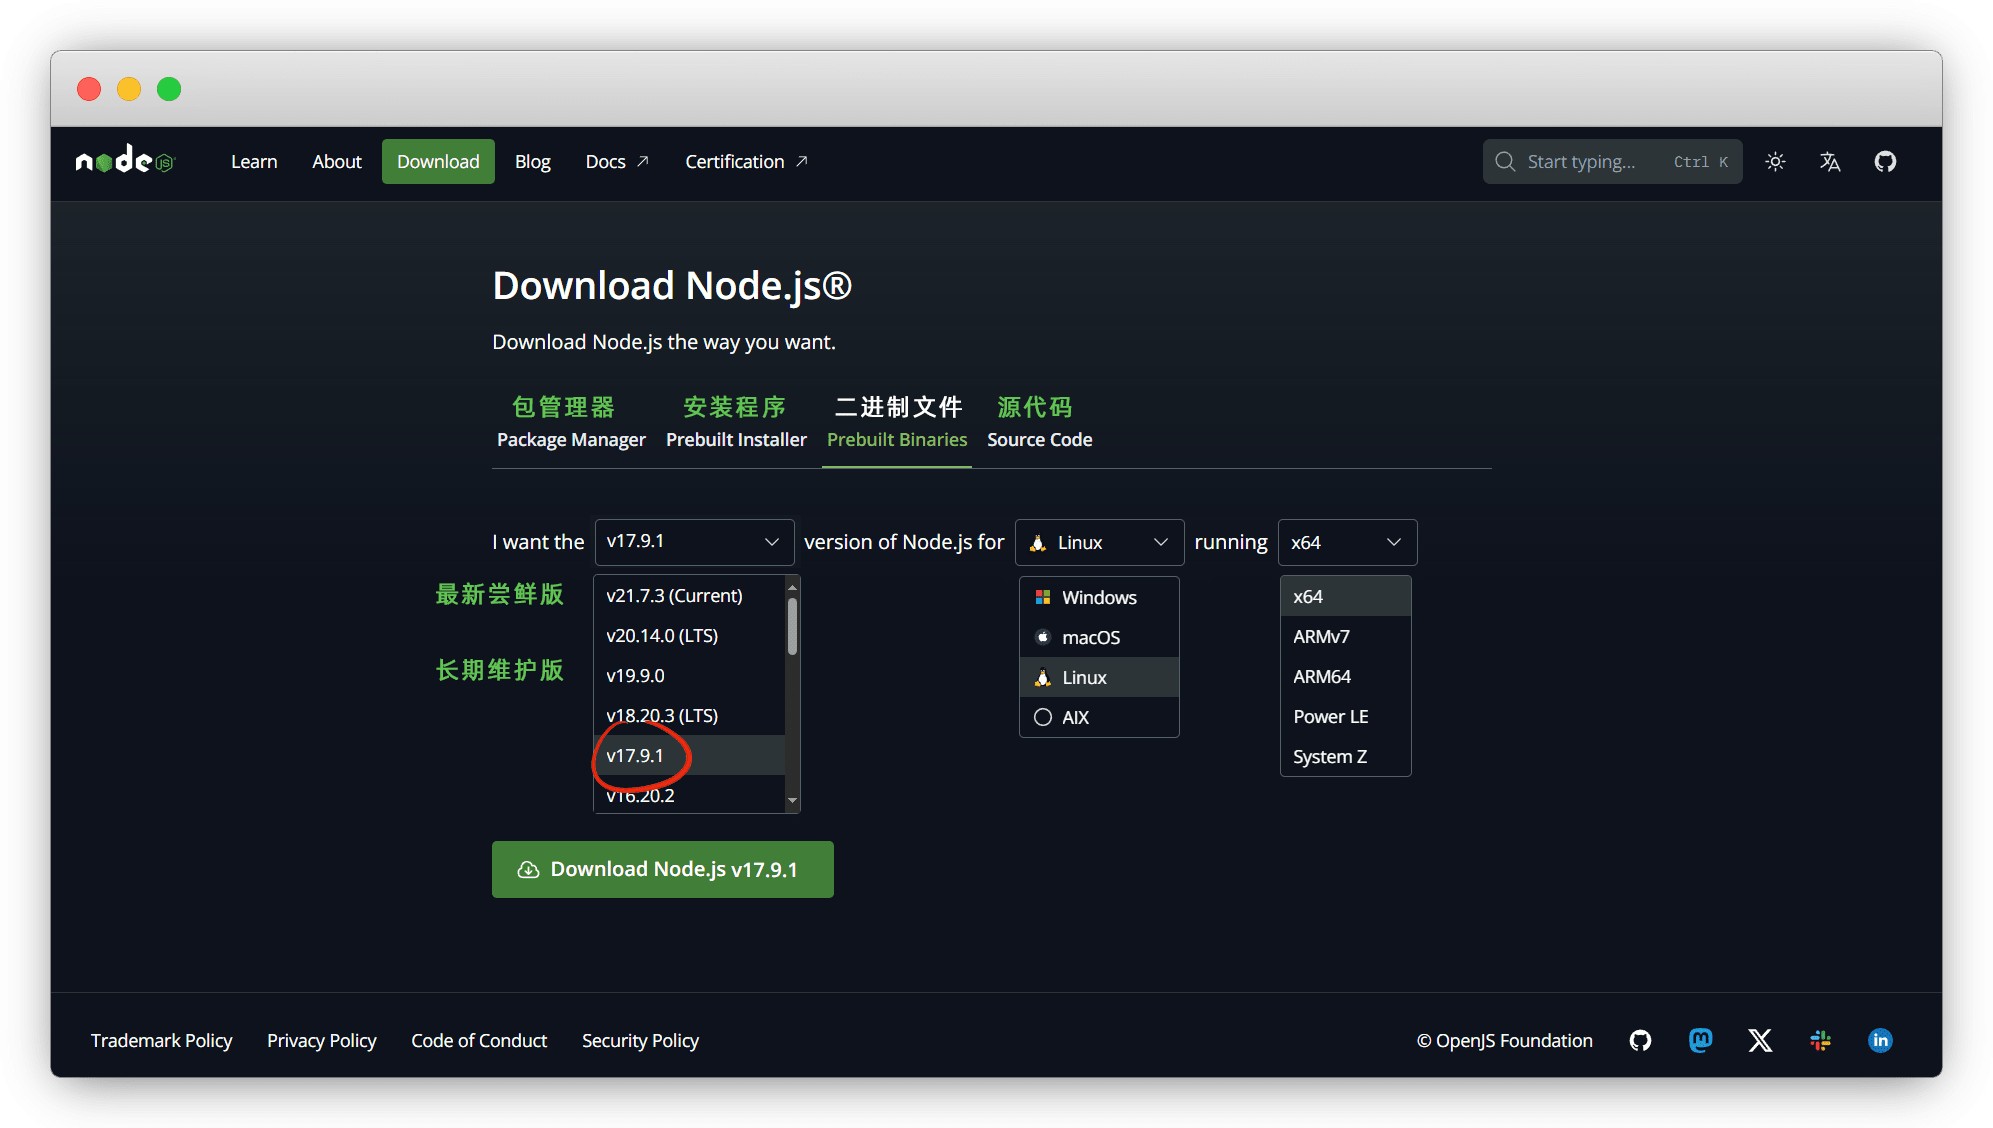
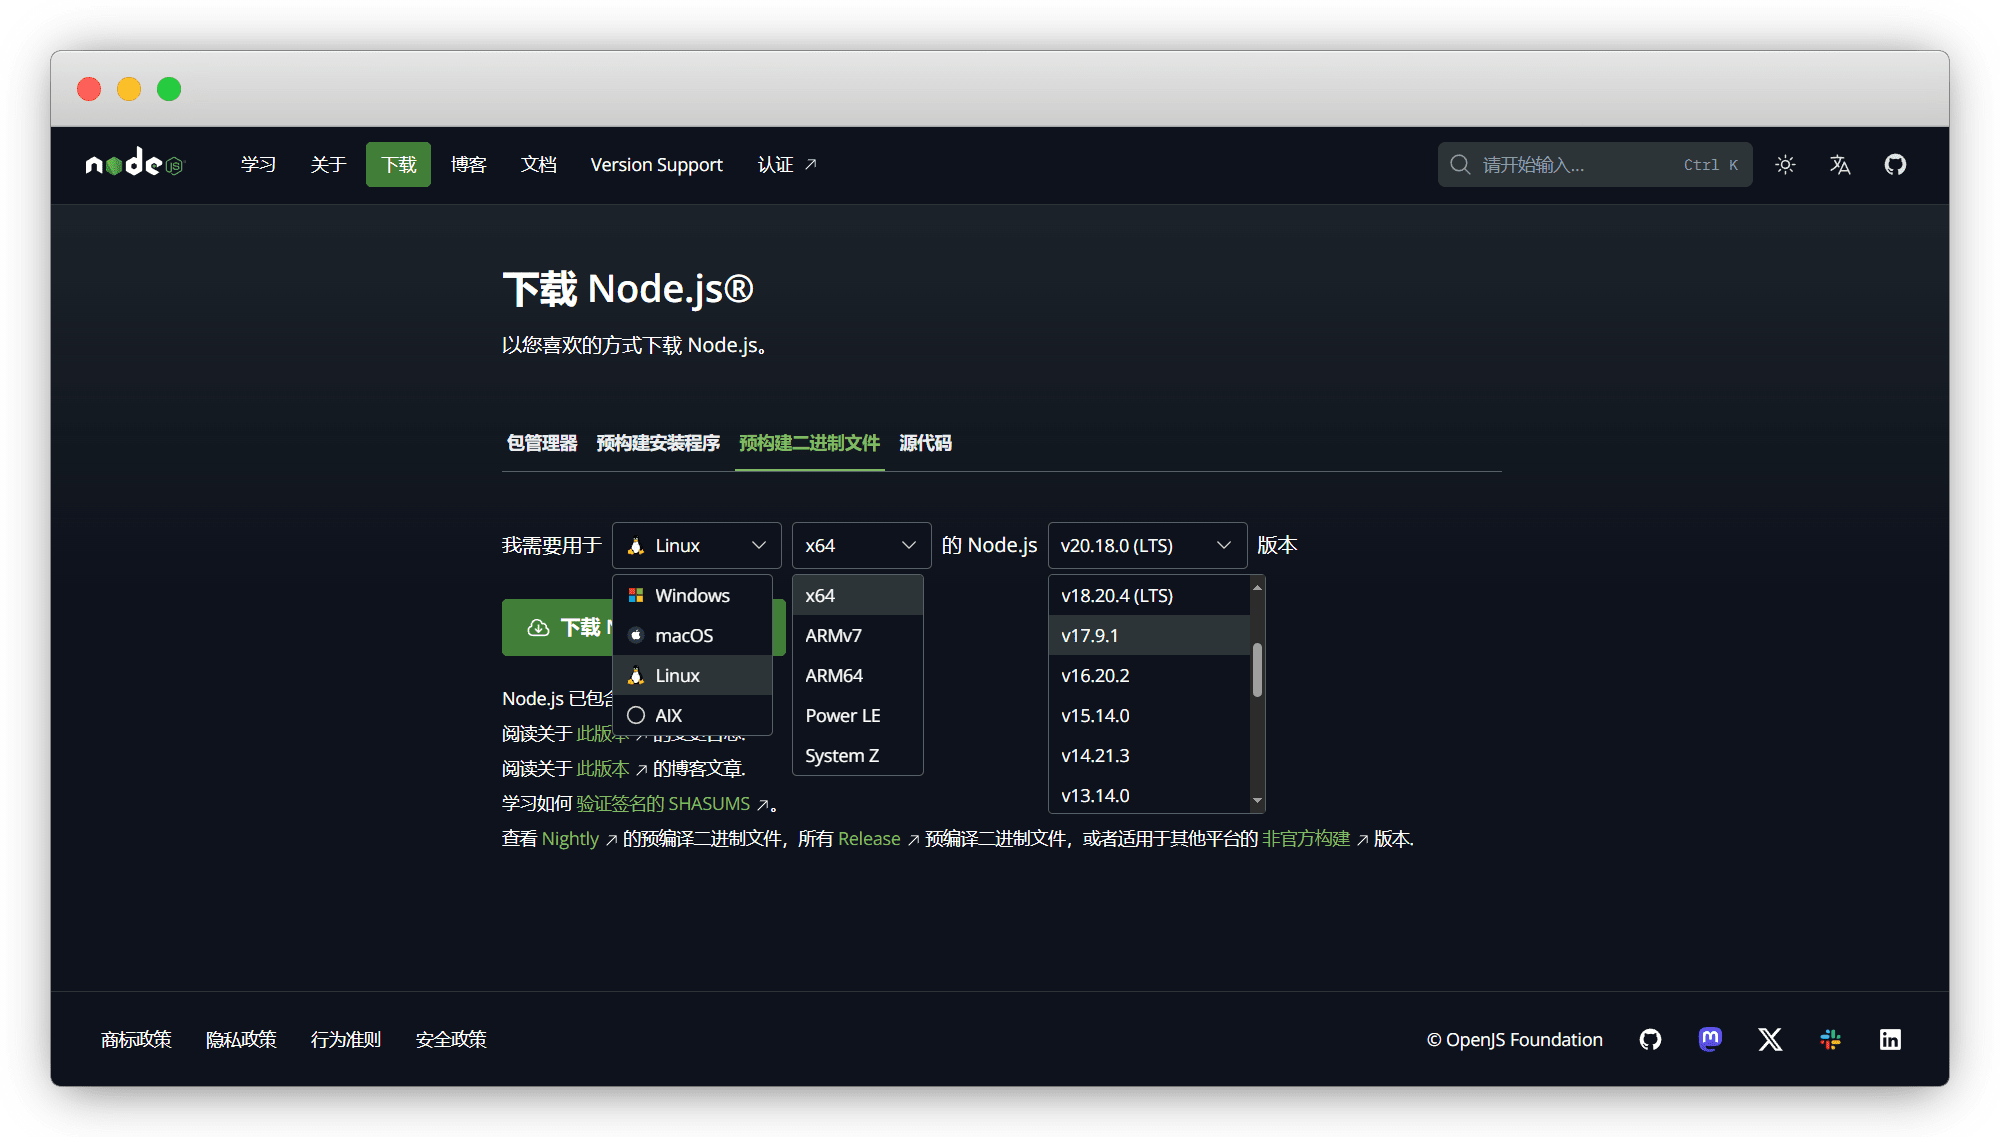
update

diff --git a/docs/.vitepress/theme/style/vp-code.css b/docs/.vitepress/theme/style/vp-code.css
@@ -2,24 +2,66 @@
 
 /* 无行号 添加背景阴影 */
 .vp-doc div[class*=language-] {
-    position: relative;
-    border-radius: 8px;
-    overflow: hidden;
-    box-shadow: 0 10px 30px 0 rgb(0 0 0 / 40%);
-    z-index: 1;
-  }
-  
-  /* 无行号：添加 macOS 风格的小圆点 */
-  .vp-doc div[class*=language-]::before {
-    content: "";
-    display: block;
-    position: relative;
-    top: 12px;
-    left: 12px;
-    width: 12px;
-    height: 12px;
-    background-color: #ff5f56;
-    border-radius: 50%;
-    box-shadow: 20px 0 0 #ffbd2e, 40px 0 0 #27c93f;
-    z-index: 1;
-  }
+  position: relative;
+  border-radius: 8px;
+  overflow: hidden;
+  box-shadow: 0 10px 30px 0 rgb(0 0 0 / 40%);
+  z-index: 1;
+}
+
+/* 无行号：添加 macOS 风格的小圆点 */
+.vp-doc div[class*=language-]::before {
+  content: "";
+  display: block;
+  position: relative;
+  top: 12px;
+  left: 12px;
+  width: 12px;
+  height: 12px;
+  background-color: #ff5f56;
+  border-radius: 50%;
+  box-shadow: 20px 0 0 #ffbd2e, 40px 0 0 #27c93f;
+  z-index: 1;
+}
+
+/* 有行号 添加背景阴影 */
+div[class*="language-"].vp-adaptive-theme.line-numbers-mode {
+  position: relative;
+  border-radius: 8px;
+  overflow: hidden;
+  box-shadow: 0 10px 30px 0 rgb(0 0 0 / 40%);
+}
+
+
+/* 有行号：添加 macOS 风格的小圆点 */
+.vp-doc div[class*="language-"].line-numbers-mode::before {
+  content: "";
+  display: block;
+  position: relative;
+  top: 12px;
+  left: -22px;
+  width: 12px;
+  height: 12px;
+  background-color: #ff5f56;
+  border-radius: 50%;
+  box-shadow: 20px 0 0 #ffbd2e, 40px 0 0 #27c93f;
+  z-index: 1;
+}
+
+
+
+/* 下移行号，与代码对齐；隐藏右侧竖线 */
+.vp-doc .line-numbers-wrapper {
+  padding-top: 32px;
+  border-right: none;
+}
+
+/* 重新建立行号右侧竖线 */
+.vp-doc .line-numbers-wrapper::after {
+  content: "";
+  position: absolute;
+  top: 38px;
+  right: 0;
+  border-right: 1px solid var(--vp-code-block-divider-color);
+  height: calc(100% - 66px);
+}

diff --git a/docs/.vitepress/theme/style/vp-code-group.css b/docs/.vitepress/theme/style/vp-code-group.css
@@ -2,37 +2,37 @@
 
 /* 代码块tab */
 .vp-code-group .tabs {
-    padding-top: 30px;
-  }
-  
-  /* 代码块tab-顶部小圆点 */
-  .vp-code-group .tabs::before {
-    background: #fc625d;
-    border-radius: 50%;
-    box-shadow: 20px 0 #fdbc40, 40px 0 #35cd4b;
-    content: ' ';
-    height: 12px;
-    width: 12px;
-    left: 12px;
-    margin-top: -15px;
-    position: absolute;
-  }
-  
-  /* 代码组的容器样式 */
-  .vp-code-group {
-    color: var(--vp-c-black-soft);
-    border-radius: 8px;
-    box-shadow: 0 10px 30px 0 rgb(0 0 0 / 40%);
-  }
-  
-  /* 在代码组内部与外部容器的边角一致，避免嵌套的阴影叠加 */
-  .vp-code-group div[class*="language-"].vp-adaptive-theme.line-numbers-mode {
-    border-radius: 8px;
-    box-shadow: none;
-    position: relative;
-  }
-  
-  /* 上移代码块小圆点 遮盖住 */
-  .vp-code-group div[class*="language-"].vp-adaptive-theme.line-numbers-mode::before {
-    top: -12px;
-  }
+  padding-top: 30px;
+}
+
+/* 代码块tab-顶部小圆点 */
+.vp-code-group .tabs::before {
+  background: #fc625d;
+  border-radius: 50%;
+  box-shadow: 20px 0 #fdbc40, 40px 0 #35cd4b;
+  content: ' ';
+  height: 12px;
+  width: 12px;
+  left: 12px;
+  margin-top: -15px;
+  position: absolute;
+}
+
+/* 代码组的容器样式 */
+.vp-code-group {
+  color: var(--vp-c-black-soft);
+  border-radius: 8px;
+  box-shadow: 0 10px 30px 0 rgb(0 0 0 / 40%);
+}
+
+/* 在代码组内部与外部容器的边角一致，避免嵌套的阴影叠加 */
+.vp-code-group div[class*="language-"].vp-adaptive-theme {
+  border-radius: 8px;
+  box-shadow: none;
+  position: relative;
+}
+
+/* 上移代码块小圆点 遮盖住 */
+.vp-code-group div[class*="language-"].vp-adaptive-theme::before {
+  display: none;
+}

diff --git a/docs/website/nodejs.md b/docs/website/nodejs.md
@@ -1,7 +1,4 @@
-
 # node.js的安装及使用
-
-
 
 
 
@@ -11,7 +8,7 @@
 
 npm是其包管理工具
 
-官网：[https://nodejs.org/](https://nodejs.org/zh-cn/)
+官网：https://nodejs.org/zh-cn
 
 仓库：https://github.com/nodejs/node
 
@@ -26,52 +23,43 @@ npm是其包管理工具
 
 ## 安装
 
-
-
-如果你安装了宝塔，可直接在软件商店搜 `node` 安装
+> 如果你安装了宝塔，可直接在软件商店搜 `node` 安装
 
 
 
 :::: details CentOS安装
 
-安装前，使用 [shell](./shell/) 工具 连接服务器 查看centos版本
+安装前，使用 [shell](./shell/) 工具 连接服务器，查看centos版本
 
 ```sh
+# 查看centos版本
 yum list installed | grep centos
 ```
 
-::: details 注意： 系统版本 和 nodejs 版本同步
-* centos 7：使用 node.js 18 以下（glibc版本低）
-
-* CentOS 8：使用 node.js 18 及以上版本
-:::
 
 ![](/nodejs/linux/linux-01.png)
 
 
+进入下载页面，选择 [预构建二进制文件](https://nodejs.org/zh-cn/download/prebuilt-binaries)
 
-进入下载页面 选择 [Prebuilt Installer](https://nodejs.org/en/download/prebuilt-installer)
-
-::: tip 说明
-* Package Manager：用包管理器安装
-
-* Prebuilt Installer：安装程序
-
-* Prebuilt Binaries：二进制文件(压缩包)
-
-* Source Code：源代码
-:::
-
-![](/nodejs/linux/linux-02.png)
-
-
-我的系统是CentOS 7，只能选择 `v17.9.1` - `linux` ，然后将下载链接复制出来
+我的系统是CentOS 7，只能选择 `v17.9.1` 
 
 ::: details 为什么不用最新版
 node.js 18 已不支持 Centos 7 了
 
+* centos 7：使用 node.js 18 以下（glibc版本低）
+
+* CentOS 8：使用 node.js 18 及以上版本
+
 其他版本查找：https://nodejs.org/dist/
 :::
+
+
+
+![](/nodejs/linux/linux-02.png)
+
+
+鼠标右键，将下载链接复制出来，如下
 
 ```
 https://nodejs.org/dist/v17.9.1/node-v17.9.1-linux-x64.tar.xz
@@ -84,7 +72,7 @@ https://nodejs.org/dist/v17.9.1/node-v17.9.1-linux-x64.tar.xz
 [shell](./shell/) 输入命令，进入根目录
 
 ::: tip 说明
-鼠标右键，粘贴！`ctrl+v` 是不可用的
+鼠标右键粘贴！`ctrl+v` 是不可用的
 :::
 
 ```sh
@@ -99,6 +87,10 @@ cd / #进入根目录
 
 使用wget命令安装，粘贴刚才的下载链接
 
+```sh
+wget https://nodejs.org/dist/v17.9.1/node-v17.9.1-linux-x64.tar.xz
+```
+
 ::: details 命令无反应？
 用 yum 安装一下 wget 就好
 
@@ -107,11 +99,6 @@ yum install wget -y
 ```
 :::
 
-
-
-```sh
-wget https://nodejs.org/dist/v17.9.1/node-v17.9.1-linux-x64.tar.xz
-```
 
 ![](/nodejs/linux/linux-05.png)
 
@@ -157,9 +144,17 @@ ln -sf /node-v17.9.1/bin/npm /usr/local/bin/npm
 
 重启Xshell，关掉重新打开才生效
 
+```sh
+#查看node版本号
+node -v
+
+#查看npm版本
+npm -v 
+```
+
 ::: details 报错了？
 
-让你下对应版本吧，你不听好了吧，要么 换个nodejs版本，要么 [参考教程安装GLIBC](https://blog.csdn.net/nilm61/article/details/134266633)
+让你下对应版本吧，你不听，好了吧，要么换nodejs版本，要么 [参考教程安装GLIBC](https://blog.csdn.net/nilm61/article/details/134266633)
 
 ```sh
 node: /lib64/libm.so.6: version `GLIBC_2.27' not found (required by node)
@@ -170,15 +165,6 @@ node: /lib64/libc.so.6: version `GLIBC_2.28' not found (required by node)
 node: /lib64/libc.so.6: version `GLIBC_2.25' not found (required by node)
 ```
 :::
-
-
-```sh
-#查看node版本号
-node -v
-
-#查看npm版本
-npm -v 
-```
 
 ![](/nodejs/linux/linux-09.png)
 
@@ -237,26 +223,18 @@ npm config set registry https://registry.npmjs.org/
 
 安装前，鼠标右键 - 我的电脑 - 属性，查看电脑系统类型
 
+以我的 `64位` 操作系统为例
+
 ![](/nodejs/win/win-01.png)
 
 
+进入下载页面 选择 [预构建安装程序](https://nodejs.org/zh-cn/download/prebuilt-installer)
 
-进入下载页面 选择 [Prebuilt Binaries](https://nodejs.org/en/download/prebuilt-binaries) 二进制文件
-
-
-::: tip 说明
-* Package Manager：用包管理器安装
-
-* Prebuilt Installer：安装程序压缩包
-
-* Prebuilt Binaries：二进制文件
-
-* Source Code：源代码
-:::
+选择`window` `x64`(自己的电脑系统类型)， `LTS`（Long-term support，长期维护版）
 
 ![](/nodejs/win/win-02.png)
 
-选择 `LTS`（Long-term support，长期维护版）即可，`window` `x64`(自己的电脑系统类型)
+点击下载即可
 
 ![](/nodejs/win/win-03.png)
 
@@ -623,16 +601,13 @@ set-ExecutionPolicy Default
 ## 常见问题
 
 
-1.输入版本号没反应
-
+::: details 输入版本号没反应
 关掉重新打开，再次查询，没有及时没装好
+:::
 
 
 
-
-2.如何卸载
-
-
+:::: details 如何卸载
 ::: code-group
 
 ```sh [pnpm]
@@ -652,22 +627,18 @@ npm uninstall npm -g
 #卸载node
 yum remove nodejs npm -y
 ```
+:::
+::::
 
+
+
+::: details 三者的关系
+pnpm > yarn > npm
 :::
 
 
-3.三者的关系
-
-pnpm > yarn > npm
-
-
-
-
-4.Linux镜像源
-
+::: details Linux镜像源
 更换后可以让文件下载快一点
-
-
 ```
 * 阿里云源：https://npmmirror.com/
 
@@ -685,3 +656,4 @@ pnpm > yarn > npm
 
 * 中科大USTC：https://mirrors.ustc.edu.cn/
 ```
+:::
